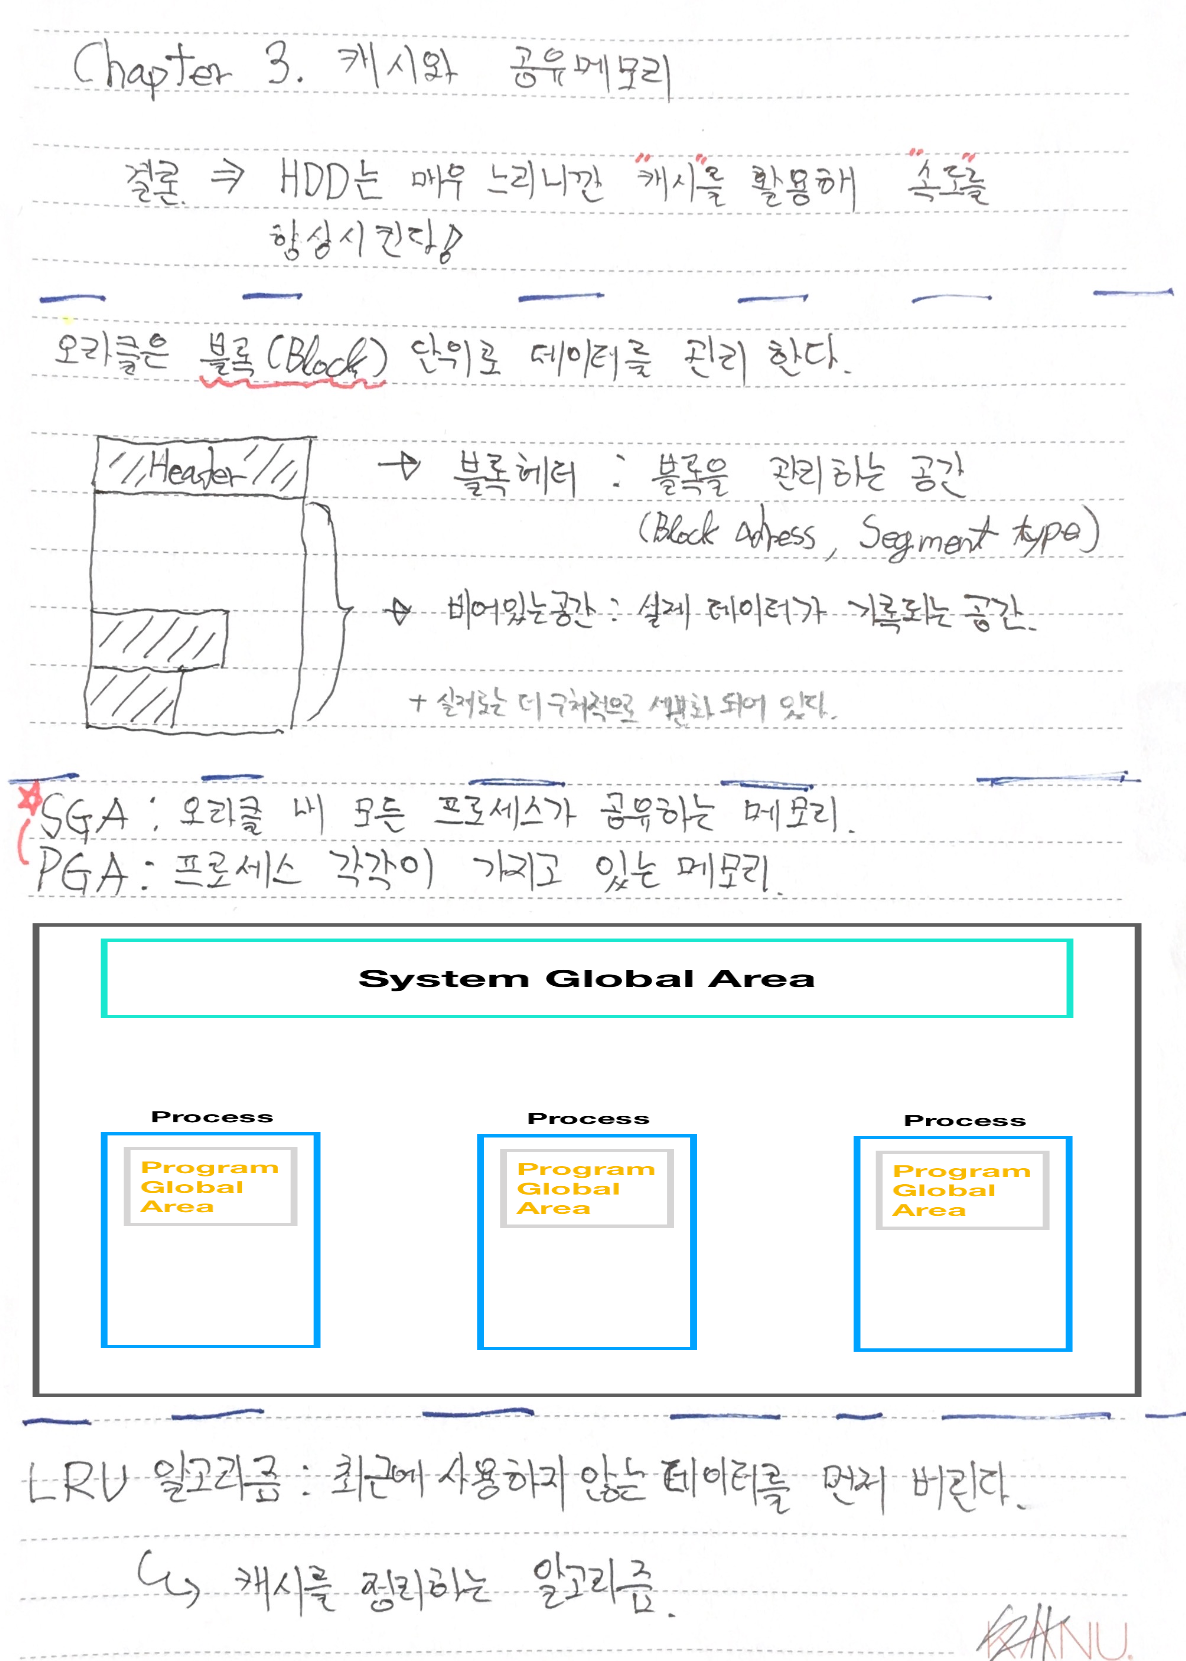
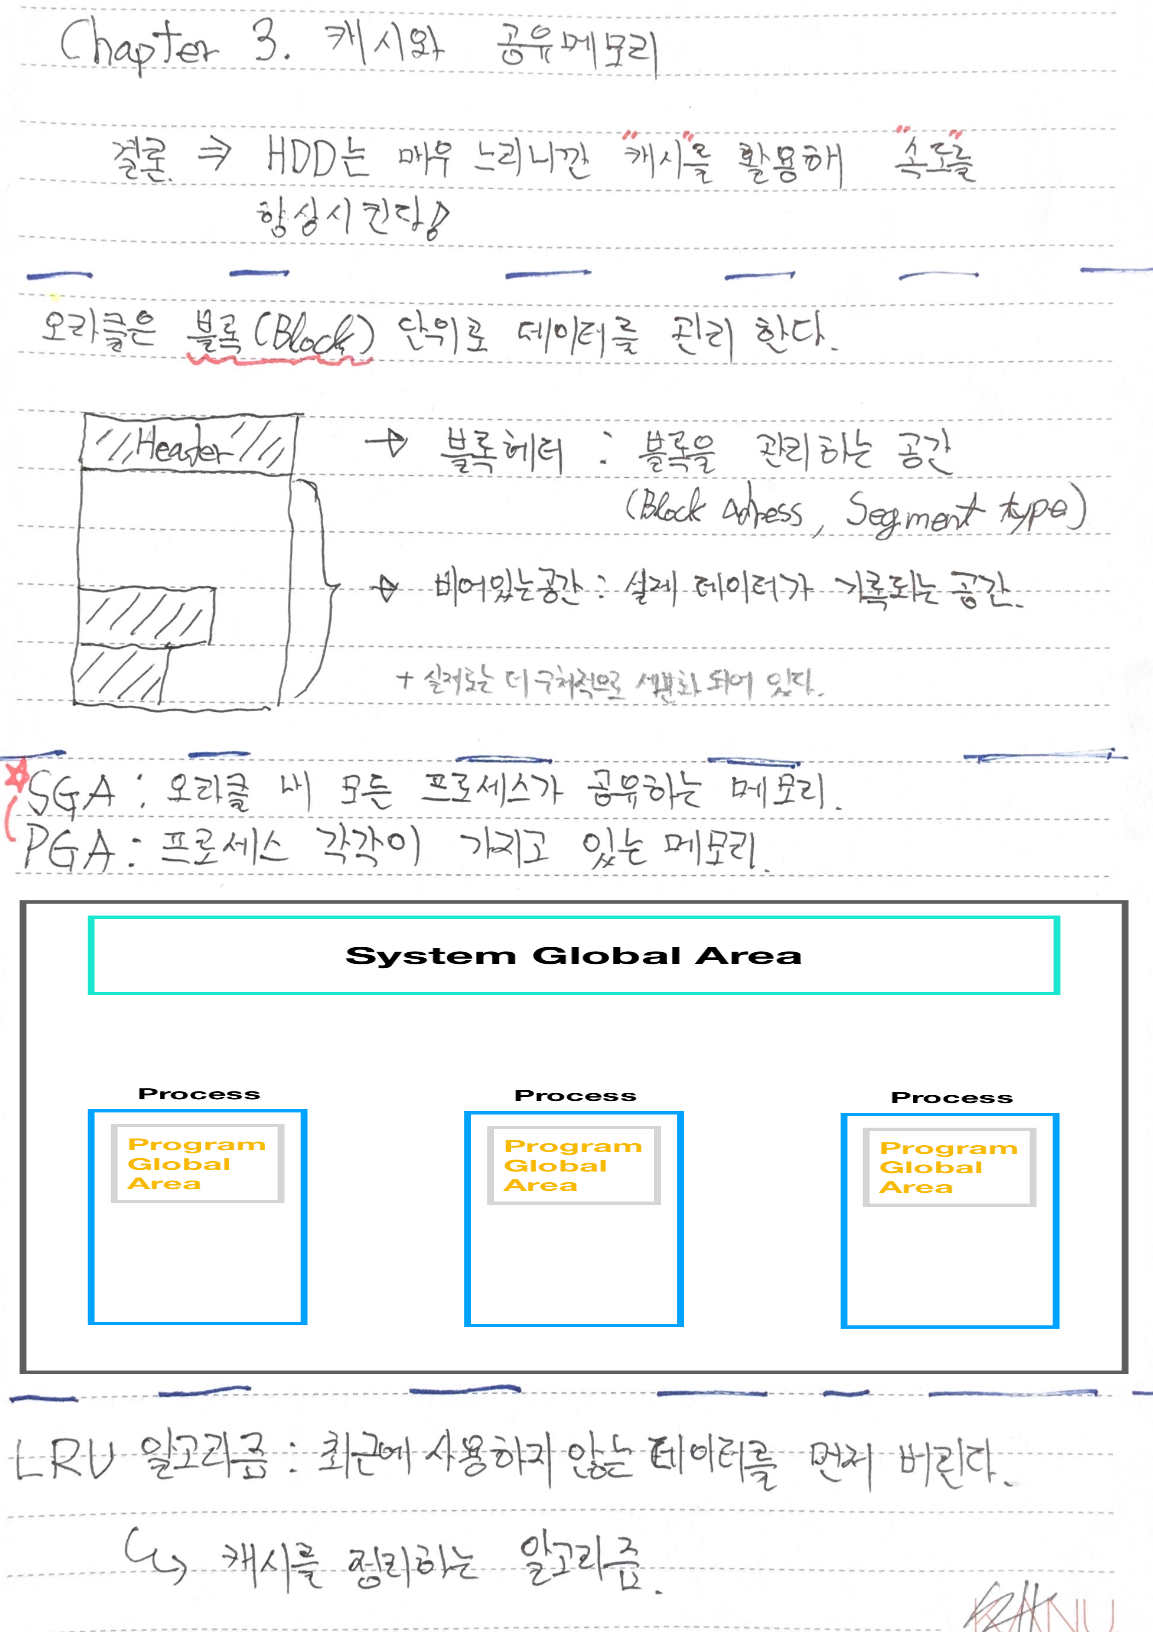
2019-03-09

diff --git a/_posts/2019-03-10-Book_Review.md b/_posts/2019-03-10-Book_Review.md
@@ -30,3 +30,33 @@ comments: true
 
 ![캐시에 데이터가 존재하는 경우](/assets/img/book_review/01_oracle_architecture/2019-03-10_oracle_02.png){: .center .img}
 
+캐시가 크고 많은 데이터를 담아 둘 수 있다면 HDD와의 I/O를 최소화 할 수 있어 속도를 크게 개선 시킬 수 있다.
+
+##### 오라클의 데이터 관리 단위, Block
+블록은 다이소에서 파는 정리상자와 비슷하다. 정리상자 안에 연필 한 자루가 있던, 과자로 가득 차있던 차지하는 부피는 동일하다.
+같은 원리로 블록은 데이터의 존재유무와 상관없이 동일한 크기로 관리된다.
+
+크게는 Header 영역와 Free Area + Row Data로 구분하지만 디테일하게는 Table Directory, Row Directory 등이 존재하지만 책에서는 간단하게 구분하므로 저 역시 책을 따라가겠다.
+
+헤더 영역에는 블록에 대한 정보를 담는다. 주소값이라던가 세그먼트 타입 등이 그것이다. Free Area는 블록의 데이터를 담고 남은 공간을 의미한다.
+정리상자에 연필 한자루만 담는다면 안에 남는 여유공간이 Free Area가 되고 연필이 Row Data가 되는 것이다.
+
+데이터가 입력되면 Free Area가 점점 줄어들고 Row Data가 쌓이가 된다. 만약 데이터의 삭제가 발생된다면 기존에 있던 Row Data를 지우지만 해당 공간에는 새로운 데이터를 채우지 않는다.(별도의 명령을 통해 채우도록 할 수도 있다)
+
+테이블 뿐만 아니라 인덱스도 블록으로 구성되어 있으니 오라클에 대해 이해하기 위해 꼭 필요한 개념이다.
+
+##### 공유메모리
+모든 프로세스마다 캐시를 갖게 되면 낭비가 발생하고, 다른 프로세스가 변경한 데이터를 확인 할 수 없는 등의 문제가 발생한다. 따라서 오라클 내에 모든 프로세스가 공유할 수 있는 메모리를 만들어 다같이 사용한다.
+
+이를 공유메모리 혹은 SGA(System Global Area)라고 한다. 반대로 각 프로세스만 사용하는 메모리도 있는데 이는 PGA(Program Global Area)라 부른다.
+이 개념은 오라클의 구조에 있어 중요한 부분이니 꼭 숙지를 하고 넘어가야한다.
+
+##### 캐시를 정리하는 LRU 알고리즘
+LRU알고리즘의 핵심은 '최근에 사용하지 않는 데이터부터 캐시에서 버린다' 이다. 캐시메모리는 제한적이기 때문에 불필요한 데이터를 지우고 자주 사용하는 데이터로 채워놔야한다.
+
+여기에 적합한 알고리즘을 잘 선택했다고 생각이 든다. 참고적으로 Full Scan한 데이터는 캐시에 저장하지 않는다고 한다. 자주 일어나는 일도 아닐 뿐더러 Full Scan 데이터가 캐시에 자리잡으면 정작 필요한 데이터를 담아둘 공간이 없기 때문이다.
+
+![LRU 알고리즘](/assets/img/book_review/01_oracle_architecture/2019-03-10_oracle_03.png){: .center .img}
+
+
+
